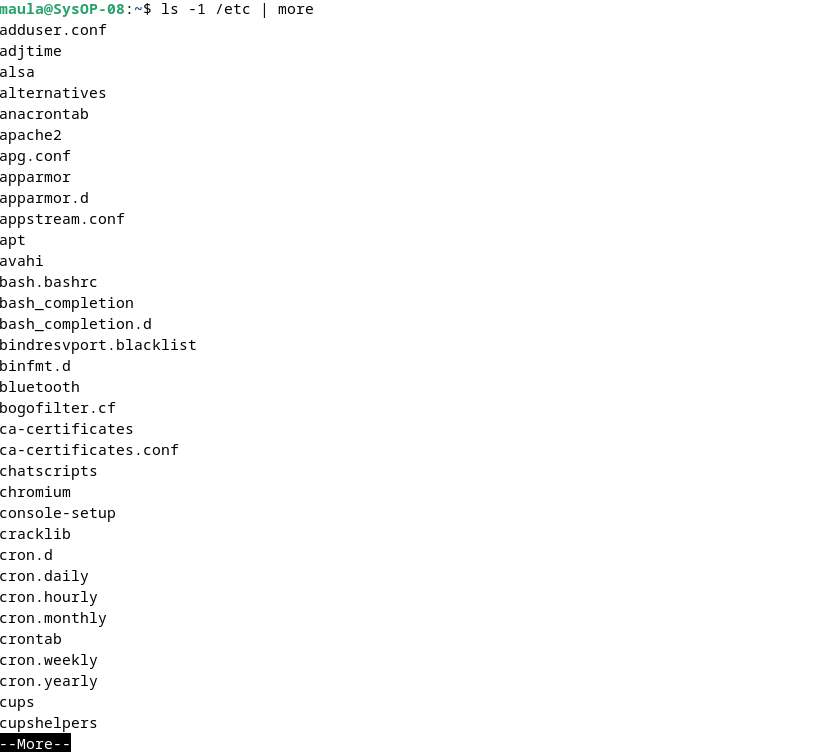
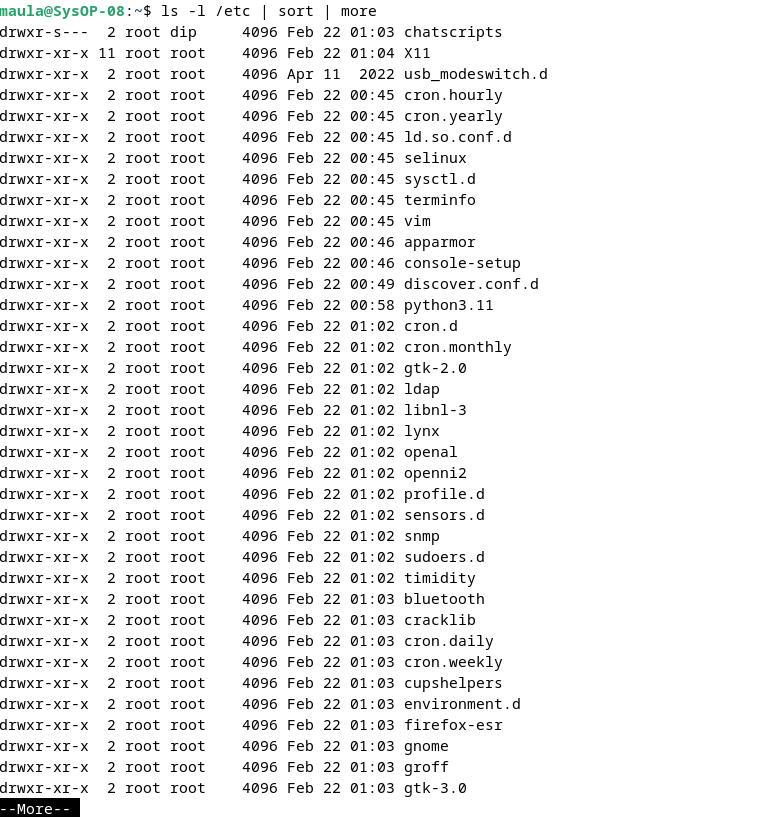
update week-4

Changed region(s): [[0.0, 0.0, 0.6942, 1.0], [0.664, 0.0612, 0.6942, 0.0918]]

diff --git a/week-4/operasi_io.md b/week-4/operasi_io.md
@@ -1,5 +1,21 @@
-# Operasi Input Output
-Referensi : [Shell Programming](https://www.geeksforgeeks.org/introduction-linux-shell-shell-scripting/?ref=shm_)
+<div align="center">
+  <h1 style="text-align: center;font-weight: bold">Pratikum 4<br>Sistem Operasi</h1>
+  <h4 style="text-align: center;">Dosen Pengampu : Dr. Ferry Astika Saputra, S.T., M.Sc.</h4>
+</div>
+<br/>
+<div align="center">
+  <img src="https://upload.wikimedia.org/wikipedia/id/4/44/Logo_PENS.png" alt="Logo PENS">
+  <h3 style="text-align: center;">Disusun Oleh : <br>Kelompok 4</h3>
+  <p style="text-align: center;">
+    <strong>Muhammad Yafi Rifdah Zayyan (3123500001)</strong><br>
+    <strong>Muhammad Daffa Erfiansyah (3123500006)</strong><br>
+    <strong>Maula Shahihah Nur Sa'adah (3123500008)</strong>
+  </p>
+
+<h3 style="text-align: center;line-height: 1.5">Politeknik Elektronika Negeri Surabaya<br>Departemen Teknik Informatika Dan Komputer<br>Program Studi Teknik Informatika<br>2023/2024</h3>
+  <hr><hr>
+</div>
+
 ## POKOK BAHASAN:
 ```
 * Pipeline
@@ -86,8 +102,29 @@ Beberapa perintah Linux yang digunakan untuk proses penyaringan antara lain :
 
 1. Apa yang dimaksud redirection?
 2. Apa yang dimaksud pipeline?
-3. Apa yang dimaksud perintah di bawah ini :
-    echo, cat, more, sort, grep, wc, cut, uniq
+3. Apa yang dimaksud perintah di bawah ini : echo, cat, more, sort, grep, wc, cut, uniq
+
+## Jawaban :
+
+1. <b>Redirection (Pembelokan) :</b> 
+Membelokkan strandar output suatu program ke file atau membelokkan standar input suatu program dari suatu file.
+2. <b>Pipeline (Pipa):</b>
+ Mekanisme pipa digunakan sebagai alat komunikasi antar proses.
+ Input => Proses 1 => Output = Input => Proses 2 => Output
+Proses 1 menghasilkan output yang selanjutnya digunakan sebagai input oleh Proses 2. Hubungan output input ini dinamakan pipa, yang menghubungkan Proses 1 dengan Proses 2 dan dinyatakan dengan symbol "|".
+   ```
+   Proses1 | Proses
+   ```
+3. Yang dimaksud perintah di bawah ini adalah :
+<br><b>echo :</b> Menampilkan text 
+<br><b>cat :</b> Membaca file dan menampilkan isinya
+<br><b>more :</b> Melihat isi suatu file dengan fasilitas melihat isi file dari atas dan untuk kebawah menggunakan tombol Enter untuk perbaris dan tombol Spasi untuk perlayar 
+<br><b>sort :</b> Digunakan untuk mengurutkan masukannya berdasarkan urutan nomor ASCII dari karakter 
+<br><b>grep :</b> Digunakan untuk menyaring masukannya dan menampilkan baris-baris yang hanya mengandung pola yang ditentukan
+<br><b>wc :</b> Digunakan untuk menghitung jumlah baris, kata dan karakter dari baris-baris masukan yang diberikan kepadanya. Untuk mengetahui berapa baris gunakan option -l. Untuk mengetahui berapa kata, gunakan option -w dan untuk mengetahui berapa karakter, gunakan option -c. Jika salah satu option tidak digunakan, maka tampilannya adalah jumlah baris, jumlah kata dan jumlah karakter
+<br><b>cut :</b> Digunakan untuk mengambil  kolom tertentu dan baris-baris masukannya, yang ditentukan pada opinion -c 
+<br><b>uniq :</b> Digunakan untuk menghilangkan baris-baris berurutan yang mengalami duplikasi, biasanya digabungkan dalam pipeline dengan sort
+<br>
 
 ## PERCOBAAN:
 
@@ -102,6 +139,8 @@ Beberapa perintah Linux yang digunakan untuk proses penyaringan antara lain :
     ```
     $ ps
     ```
+
+   ![App Screenshot](img/percobaan1_1.png)
 2. Output ke layar (standar output), input dari keyboard (standard input)
    ```
     $ cat
@@ -112,11 +151,15 @@ Beberapa perintah Linux yang digunakan untuk proses penyaringan antara lain :
     [Ctrl-d]
    ```
 
+   ![App Screenshot](img/percobaan1_2.png)
+
 3. Input nama direktori, output tidak ada (membuat direktori baru), bila terjadi error maka tampilan error pada layar (standard error)
    ```
    $ mkdir mydir
    $ mkdir mydir **(Terdapat pesan error)**
    ```
+
+   ![App Screenshot](img/percobaan1_3.png)
 
 ## Percobaan 2 : Pembelokan (redirection)
 1. Pembelokan standar output
@@ -124,17 +167,26 @@ Beberapa perintah Linux yang digunakan untuk proses penyaringan antara lain :
     $ cat 1> myfile.txt
     Ini adalah teks yang saya simpan ke file myfile.txt
    ```
+
+   ![App Screenshot](img/percobaan2_1.png)
+
 2. Pembelokan standar input, yaitu input dibelokkan dari keyboard menjadi dari file
    ```
     $ cat 0< myfile.txt
     $ cat myfile.txt
    ```
+
+   ![App Screenshot](img/percobaan2_2.png)
+
 3. Pembelokan standar error untuk disimpan di file
    ```
     $ mkdir mydir (Terdapat pesan error)
     $ mkdir mydir 2> myerror.txt
     $ cat myerror.txt
    ```
+
+   ![App Screenshot](img/percobaan2_3.png)
+
 4. Notasi 2>&1 : pembelokan standar error (2>) adalah identik dengan file descriptor 1.
    ```
     $ ls filebaru (Terdapat pesan error)
@@ -143,12 +195,18 @@ Beberapa perintah Linux yang digunakan untuk proses penyaringan antara lain :
     $ ls filebaru 2> out.txt 2>&
     $ cat out.txt
    ```
+
+   ![App Screenshot](img/percobaan2_4.png)
+
 5. Notasi 1>&2 (atau >&2) : pembelokan standar output adalah sama dengan file descriptor 2 yaitu standar error
    ```
    $ echo “mencoba menulis file” 1> baru
    $ cat filebaru 2> baru 1>&
    $ cat baru
    ```
+
+   ![App Screenshot](img/percobaan2_5.png)
+
 6. Notasi >> (append)
    ```
    $ echo “kata pertama” > surat
@@ -158,6 +216,9 @@ Beberapa perintah Linux yang digunakan untuk proses penyaringan antara lain :
    $ echo “kata keempat” > surat
    $ cat surat
    ```
+
+   ![App Screenshot](img/percobaan2_6.png)
+
 7. Notasi here document (<<++ .... ++) digunakan sebagai pembatas input dari keyboard. Perhatikan bahwa tanda pembatas dapat digantikan dengan tanda apa saja, namun harus sama dan tanda penutup harus diberikan pada awal baris
    ```
    $ cat <<++
@@ -171,10 +232,15 @@ Beberapa perintah Linux yang digunakan untuk proses penyaringan antara lain :
    Ok!
    %%%
    ```
+
+   ![App Screenshot](img/percobaan2_7.png)
+
 8. Notasi – (input keyboard) adalah representan input dari keyboard. Artinya menampilkan file 1, kemudian menampilkan input dari keyboard dan menampilkan file 2. Perhatikan bahwa notasi “-“ berarti menyelipkan input dari keyboard
-  ```
-  $ cat myfile.txt – surat
-  ```
+   ```
+   $ cat myfile.txt – surat
+   ```
+
+   ![App Screenshot](img/percobaan2_8.png)
 
 ## Percobaan 3 : Pipa (pipeline)
 
@@ -189,21 +255,34 @@ Beberapa perintah Linux yang digunakan untuk proses penyaringan antara lain :
    $ ls –l /etc | more
    $ ls –l /etc | sort | more
    ```
+
+   ![App Screenshot](img/percobaan3_1(1).png)
+   ![App Screenshot](img/percobaan3_1(2).png)
+
 2. Untuk membelokkan standart output ke file, digunakan operator ">"
    ```
    $ echo hello
    $ echo hello > output
    $ cat output
    ```
+
+   ![App Screenshot](img/percobaan3_2.png)
+
 3. Untuk menambahkan output ke file digunakan operator ">>"
    ```
    $ echo bye >> output
    $ cat output
    ```
+
+   ![App Screenshot](img/percobaan3_3.png)
+
 4. Untuk membelokkan standart input digunakan operator "<"
    ```
    $ cat < output
    ```
+
+   ![App Screenshot](img/percobaan3_4.png)
+
 5. Pembelokan standart input dan standart output dapat dikombinasikan tetapi tidak boleh menggunakan nama file yang sama sebagai standart input dan output.
    ```
    $ cat < output > out
@@ -216,6 +295,8 @@ Beberapa perintah Linux yang digunakan untuk proses penyaringan antara lain :
    [Ctrl-c]
    $ cat out
    ```
+
+   ![App Screenshot](img/percobaan3_5.png)
 
 ## Percobaan 4 : Filter
 1. Pipa juga digunakan untuk mengkombinasikan utilitas sistem untuk membentuk fungsi yang lebih kompleks
@@ -242,13 +323,31 @@ Beberapa perintah Linux yang digunakan untuk proses penyaringan antara lain :
     $ cat kelas.txt | sort | uniq
    ```
 
+   ![App Screenshot](img/percobaan4_1(1).png)
+   ![App Screenshot](img/percobaan4_1(2).png)
+
 ## LATIHAN:
 
-1. Lihat daftar secara lengkap pada direktori aktif, belokkan tampilan standard output   ke file baru.
+1. Lihat daftar secara lengkap pada direktori aktif, belokkan tampilan standard output ke file baru.
+
+   ![App Screenshot](img/latihan_1.png)
+
 2. Lihat daftar secara lengkap pada direktori /etc/passwd, belokkan tampilan standard output ke file baru tanpa menghapus file baru sebelumnya.
+
+   ![App Screenshot](img/latihan_2.png)
+
 3. Urutkan file baru dengan cara membelokkan standard input.
+
+   ![App Screenshot](img/latihan_3.png)
+
 4. Urutkan file baru dengan cara membelokkan standard input dan standard output ke file baru.urut.
+
+   ![App Screenshot](img/latihan_4.png)
+
 5. Buatlah direktori latihan 2 sebanyak 2 kali dan belokkan standard error ke file rmdirerror.txt.
+
+   ![App Screenshot](img/latihan_5.png)
+
 6. Urutkan kalimat berikut :
    ```
    Jakarta
@@ -258,10 +357,14 @@ Beberapa perintah Linux yang digunakan untuk proses penyaringan antara lain :
    Palembang
    Lampung
    ```
-  Dengan menggunakan notasi **here document (<@@@ ...@@@)** . [HINT](https://www.geeksforgeeks.org/how-to-use-here-document-in-bash-programming/)
-  
+   Dengan menggunakan notasi **here document (<@@@ ...@@@)** . [HINT](https://www.geeksforgeeks.org/how-to-use-here-document-in-bash-programming/)
+
+   ![App Screenshot](img/latihan_6.png)
 
 7. Hitung jumlah baris, kata dan karakter dari file baru.urut dengan menggunakan filter dan tambahkan data tersebut ke file baru.
+
+   ![App Screenshot](img/latihan_7.png)
+
 8. Gunakan perintah di bawah ini dan perhatikan hasilnya.
    ```
     $ cat > hello.txt
@@ -275,8 +378,11 @@ Beberapa perintah Linux yang digunakan untuk proses penyaringan antara lain :
     $ cat hello.txt | sort | uniq
     $ cat hello.txt | grep “dog” | grep –v “cat”
    ```
+
+   ![App Screenshot](img/latihan_8.png)
+
 ## LAPORAN RESMI:
 
-1. Analisa hasil percobaan 1 sampai dengan 4, untuk setiap perintah jelaskan    tampilannya.
+1. Analisa hasil percobaan 1 sampai dengan 4, untuk setiap perintah jelaskan tampilannya.
 2. Kerjakan latihan diatas dan analisa hasilnya
 3. Berikan kesimpulan dari praktikum ini.
